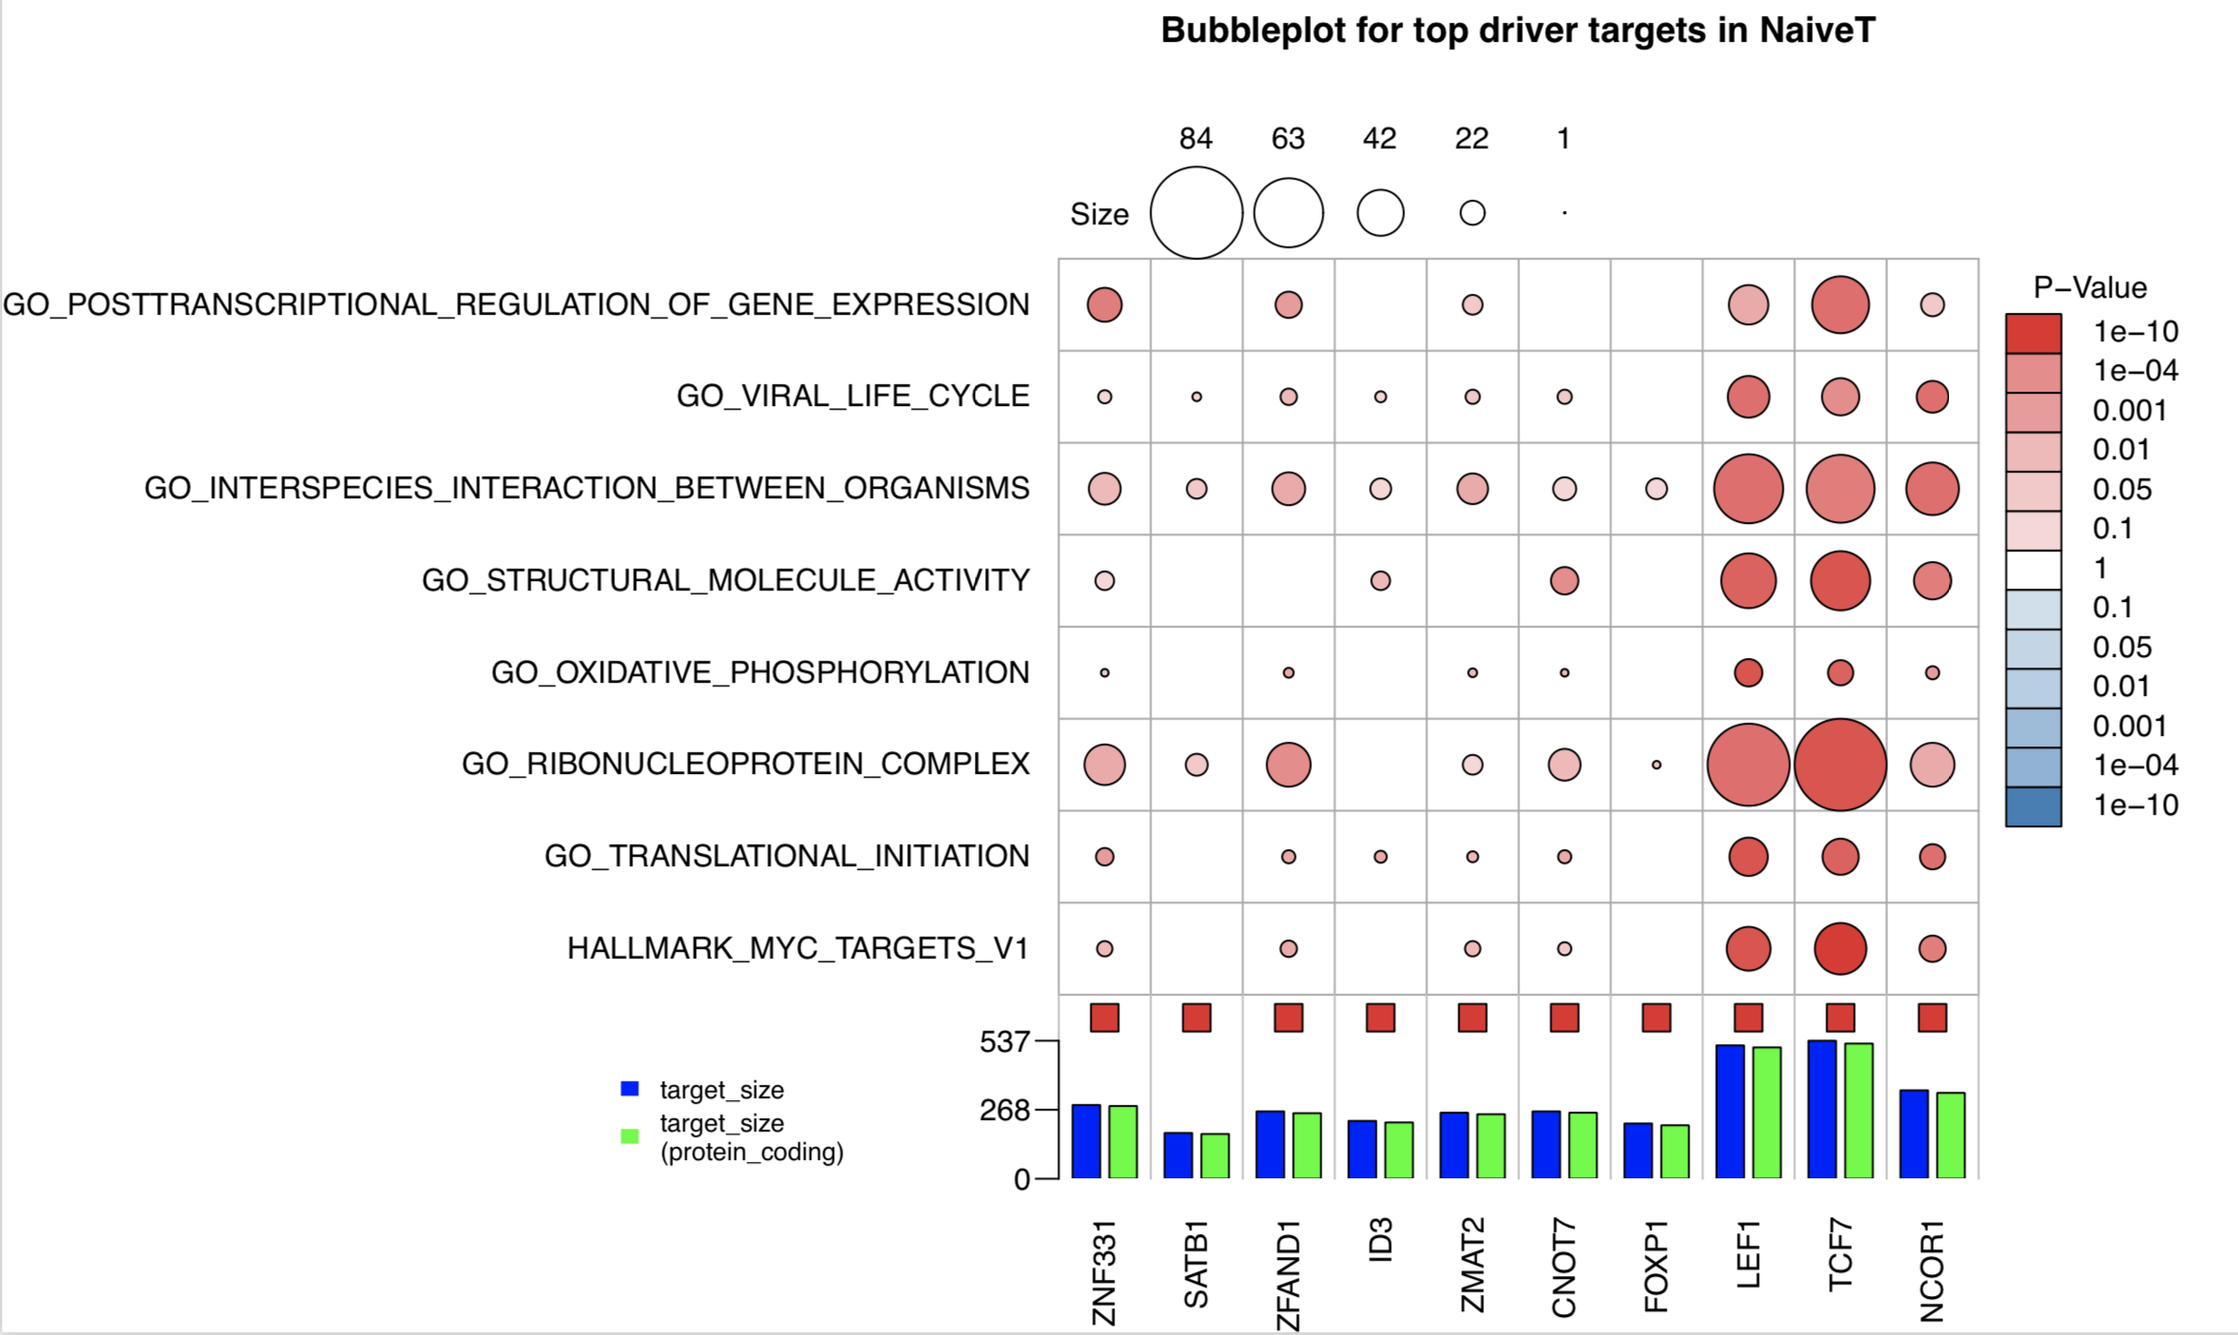
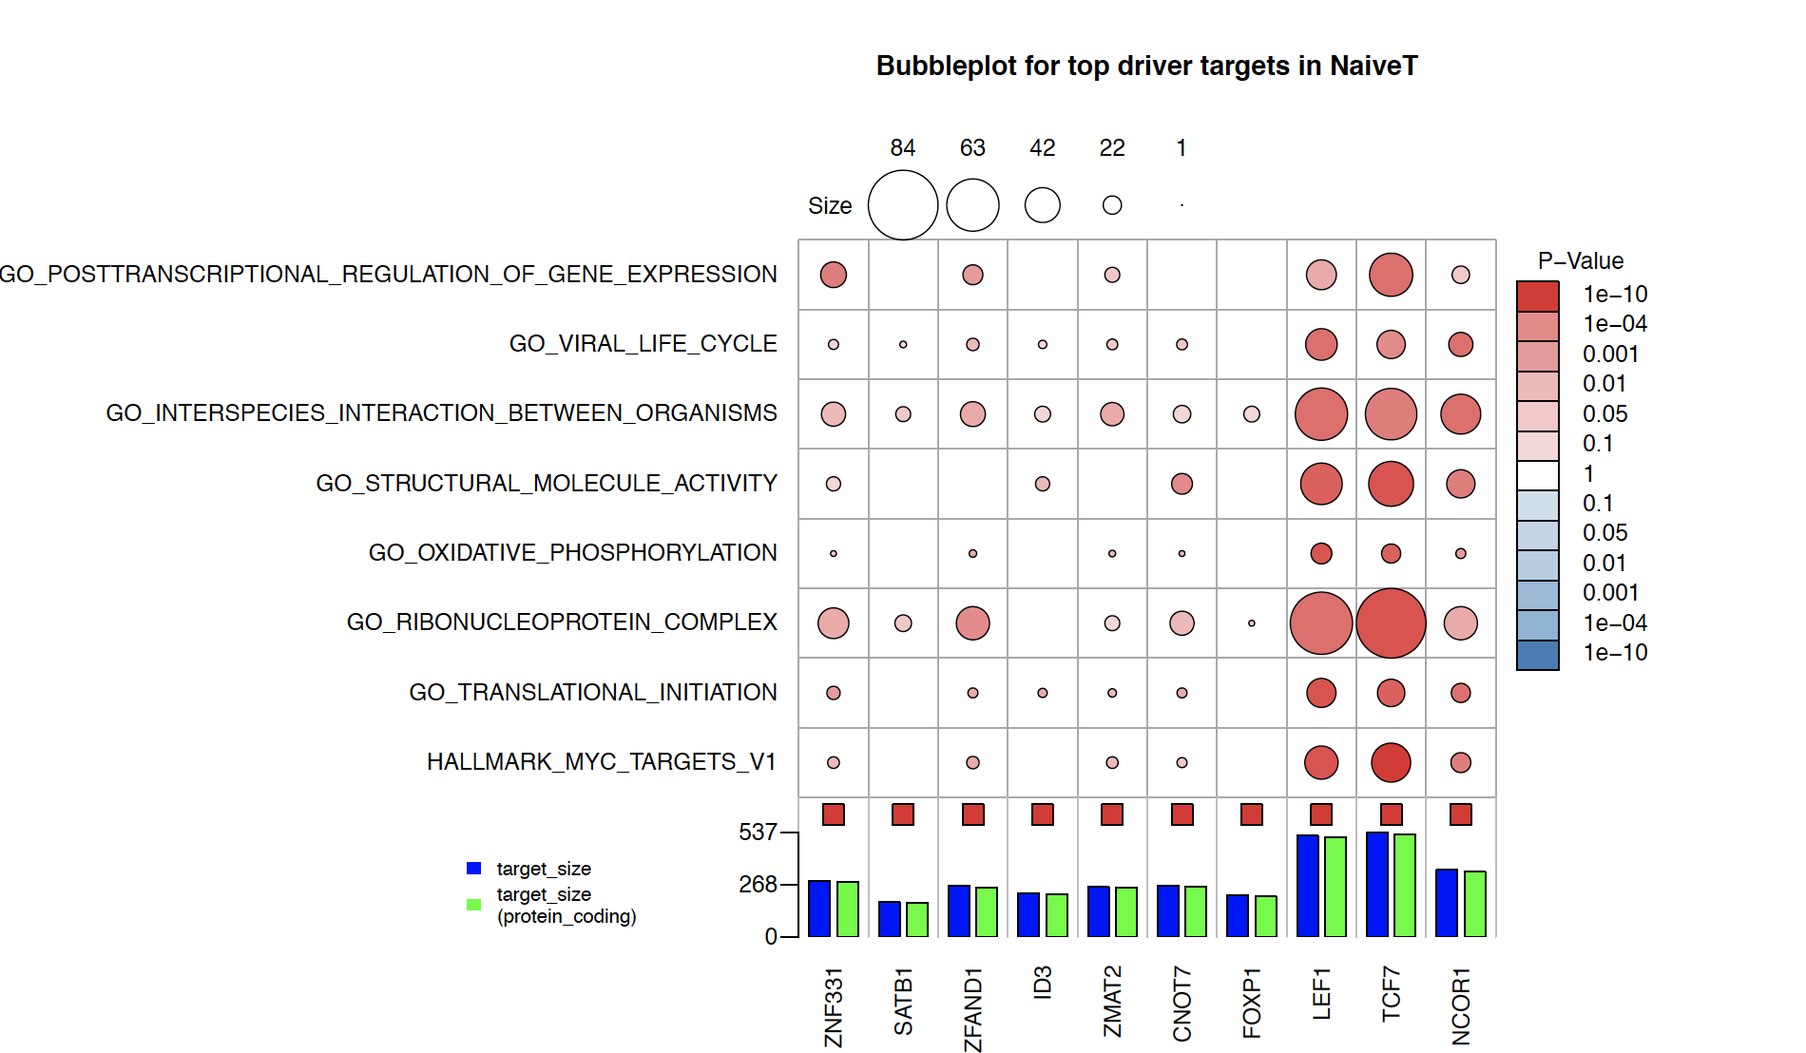
doc update network

diff --git a/docs/_site/docs/PBMC-12k-network.html b/docs/_site/docs/PBMC-12k-network.html
@@ -109,10 +109,10 @@
         
         <div id="main-content" class="page-content" role="main">
           <h1 class="no_toc" id="advanced-analysis">Advanced analysis</h1>
-<p>Here we demonstrate our advanced downstream analysis pipeline using PBMC (10x genmomics) scRNA-seq data after completing driver estimation following tutorial under tab <code class="highlighter-rouge">step by step demo with PBMC data</code></p>
+<p>Here we demonstrate our advanced downstream analysis pipeline using PBMC (10x genmomics) scRNA-seq data after following driver estimation tutorial under tab <code class="highlighter-rouge">step by step user guide</code></p>
 
 <h2 id="network-visualization">Network visualization</h2>
-<p>scMINER incorporates a handful of network visualization/exploration function adapted from <a href="https://jyyulab.github.io/NetBID/">NetBID2</a>, a powerful tool for data-driven network-based bayesian Inference of drivers. scMINER also offered several wrapper of basic visualization functions in NetBID2 for better usability.</p>
+<p>scMINER incorporates a handful of network visualization/exploration function adapted from <a href="https://jyyulab.github.io/NetBID/">NetBID2</a>, a powerful tool for data-driven network-based bayesian Inference of drivers. scMINER also offered several wrappers of basic visualization functions in NetBID2 for better usability.</p>
 
 <h3 id="single-network-visualization">Single network visualization</h3>
 <p>In scMINER, you can visualize your driver and its targets by function <code class="highlighter-rouge">draw.network</code>. It was adapted from function <code class="highlighter-rouge">draw.targetNet</code> and <code class="highlighter-rouge">draw.targetNet.TWO</code> from <code class="highlighter-rouge">NetBID2</code>. This function can help visualize a driver’s targets as well as the relationship(edge) between source and target genes, by taking Mutual information as edge weight, and spearman correlation as direction.</p>
@@ -127,7 +127,13 @@
 <center><img src="./plots/LEF1.TF_in_NaiveT_network.png" alt="drawing" width="600" /></center>
 
 <h3 id="subnetwork-structure-visualization-between-two-networks">Subnetwork structure visualization between two networks</h3>
-<p>You can also use <code class="highlighter-rouge">draw.network</code> function to visualize two networks and their subnetwork structure. This could be used for identify common targets from two top driver from the same network, or identify network rewiring event of same driver in different cell type network. Here below is an example for later case.</p>
+<p>You can also use <code class="highlighter-rouge">draw.network</code> function to visualize two networks and their subnetwork structure. This could be used for:</p>
+<ul>
+  <li>Identify common targets from two top driver from the same network</li>
+  <li>Identify network rewiring event of same driver in different cell type network.</li>
+</ul>
+
+<p>Here below is an example for later case:</p>
 
 <div class="language-R highlighter-rouge"><div class="highlight"><pre class="highlight"><code><span class="n">draw.network</span><span class="p">(</span><span class="n">net1</span><span class="w"> </span><span class="o">=</span><span class="w"> </span><span class="n">net1</span><span class="p">,</span><span class="n">net2</span><span class="w"> </span><span class="o">=</span><span class="w"> </span><span class="n">net2</span><span class="p">,</span><span class="w">
 		</span><span class="n">src1</span><span class="w"> </span><span class="o">=</span><span class="w"> </span><span class="s2">"BATF"</span><span class="p">,</span><span class="n">src2</span><span class="o">=</span><span class="s2">"BATF"</span><span class="p">,</span><span class="w"> 
@@ -143,12 +149,26 @@
 <h3 id="gene-set-overlap-with-targets-visualized-by-bubble-plot">Gene set overlap with targets visualized by bubble plot</h3>
 <p>When picking candidate hidden drivers, it would be extremly helpful if we could identify the potential biological pathways this driver regulates. With SJARACNe infered network, we can assess as well as  visualizethe overlap between knowledge-based gene sets and driver’s targets via function <code class="highlighter-rouge">draw.bubblePlot</code>. This function returns a bubble plot indiating results from Fisher exact test.</p>
 
-<div class="language-R highlighter-rouge"><div class="highlight"><pre class="highlight"><code><span class="w">
-</span><span class="n">TF_list</span><span class="w"> </span><span class="o">&lt;-</span><span class="w"> </span><span class="n">TopMasterRegulator</span><span class="p">(</span><span class="n">DAG_result</span><span class="w"> </span><span class="o">=</span><span class="w"> </span><span class="n">DAG_result</span><span class="p">,</span><span class="w">
+<p>Before using<code class="highlighter-rouge">draw.bubblePlot</code> function, you have to load genesets in your working environment by function <code class="highlighter-rouge">gs.preload()</code></p>
+
+<div class="language-R highlighter-rouge"><div class="highlight"><pre class="highlight"><code><span class="n">gs.preload</span><span class="p">(</span><span class="n">use_spe</span><span class="o">=</span><span class="s1">'Homo sapiens'</span><span class="p">,</span><span class="n">update</span><span class="o">=</span><span class="kc">FALSE</span><span class="p">)</span><span class="w">
+</span></code></pre></div></div>
+
+<p>Then you can use function <code class="highlighter-rouge">TopMasterRegulator</code> to pull out top hidden driver candidates from your Differential activity analysis results. Or write your own fucntions to hand pick candidate to visualize. Here we provide an example of using function <code class="highlighter-rouge">TopMasterRegulator</code>.</p>
+
+<div class="language-R highlighter-rouge"><div class="highlight"><pre class="highlight"><code><span class="n">TF_list</span><span class="w"> </span><span class="o">&lt;-</span><span class="w"> </span><span class="n">TopMasterRegulator</span><span class="p">(</span><span class="n">DAG_result</span><span class="w"> </span><span class="o">=</span><span class="w"> </span><span class="n">DAG_result</span><span class="p">,</span><span class="w">
                               </span><span class="n">celltype</span><span class="o">=</span><span class="s2">"NaiveT"</span><span class="p">,</span><span class="w">
                               </span><span class="n">n</span><span class="w"> </span><span class="o">=</span><span class="w"> </span><span class="m">10</span><span class="p">,</span><span class="w"> </span><span class="n">degree_filter</span><span class="w"> </span><span class="o">=</span><span class="w"> </span><span class="nf">c</span><span class="p">(</span><span class="m">50</span><span class="p">,</span><span class="m">800</span><span class="p">))</span><span class="w">
+</span></code></pre></div></div>
+<p>Next generate your ID to symbol conversion table, since all gene sets are curated at gene symbol level. Here in our data, we used ensembl_id as our default ID for network construction. In order to match your ID with gene symbols, you can use function:</p>
 
-</span><span class="n">draw.bubblePlot</span><span class="p">(</span><span class="n">driver_list</span><span class="o">=</span><span class="w"> </span><span class="n">TF_list</span><span class="p">,</span><span class="w">
+<div class="language-R highlighter-rouge"><div class="highlight"><pre class="highlight"><code><span class="n">tbl</span><span class="w"> </span><span class="o">&lt;-</span><span class="w"> </span><span class="n">get_IDtransfer2symbol2type</span><span class="p">(</span><span class="n">from_type</span><span class="w"> </span><span class="o">=</span><span class="w"> </span><span class="s2">"ensembl_gene_id"</span><span class="p">,</span><span class="w">
+		</span><span class="n">use_genes</span><span class="w"> </span><span class="o">=</span><span class="w"> </span><span class="n">rownames</span><span class="p">(</span><span class="n">eset.12k</span><span class="p">),</span><span class="n">ignore_version</span><span class="w"> </span><span class="o">=</span><span class="w"> </span><span class="kc">TRUE</span><span class="p">)</span><span class="w">
+</span></code></pre></div></div>
+
+<p>Here we provide an example for ploting out overlap between target list of top drivers in Naive T cells, and knowledge based gene sets from “Hallmark”,”KEGG” and “GO”.</p>
+
+<div class="language-R highlighter-rouge"><div class="highlight"><pre class="highlight"><code><span class="n">draw.bubblePlot</span><span class="p">(</span><span class="n">driver_list</span><span class="o">=</span><span class="w"> </span><span class="n">TF_list</span><span class="p">,</span><span class="w">
                 </span><span class="n">show_label</span><span class="o">=</span><span class="n">DAG_result</span><span class="p">[</span><span class="n">TF_list</span><span class="p">,</span><span class="s2">"geneSymbol"</span><span class="p">],</span><span class="w">
                 </span><span class="n">Z_val</span><span class="o">=</span><span class="n">DAG_result</span><span class="p">[</span><span class="n">TF_list</span><span class="p">,</span><span class="s2">"Z_NaiveT"</span><span class="p">],</span><span class="w">
                 </span><span class="n">driver_type</span><span class="o">=</span><span class="kc">NULL</span><span class="p">,</span><span class="w">
@@ -162,7 +182,7 @@
 
 </span></code></pre></div></div>
 
-<center><img src="./plots/NaiveT_bubblePlot.png" alt="drawing" width="600" /></center>
+<center><img src="./plots/NaiveT_bubblePlot.png" alt="gsbbp" /></center>
 
 <hr />
 <div class="highlighter-rouge"><div class="highlight"><pre class="highlight"><code>## R session info

diff --git a/docs/_site/docs/MICA.html b/docs/_site/docs/MICA.html
@@ -109,7 +109,7 @@
         
         <div id="main-content" class="page-content" role="main">
           <h1 class="no_toc" id="clustering-analysis-with-mica">Clustering Analysis with MICA</h1>
-<p class="fs-6 fw-300">MICA(Mutual Information based Clustering Analysis) is a nonlinear clustering analysis tool designed for scRNA-seq data. To install MIE (Mutual inforamtion estimator for distance matrix generation, module required for MICA) and MICA, please refer our <a href="https://github.com/jyyulab/MIE">MIE</a> and <a href="https://github.com/jyyulab/MICA">MICA</a> github page.</p>
+<p class="fs-6 fw-300">MICA(Mutual Information based Clustering Analysis) is a nonlinear clustering analysis tool designed for scRNA-seq data. Here we provide a user guide to perform MICA clustering on both local node or LSF platform. To install, please infer our <a href="https://github.com/jyyulab/MICA">MICA</a> github page.</p>
 
 <h2 class="no_toc text-delta" id="table-of-contents">Table of contents</h2>
 
@@ -144,7 +144,7 @@
 </ol>
 
 <h2 id="preprocssing">Preprocssing</h2>
-<p>MICA module was implemented in python, which only includes clustering analysis. For preprocessing, MICA is compatitble with most published scRNA-seq preprocessing pipeline. However, we highly recommend users to follow our preprocessing framework utilizing <code class="highlighter-rouge">scMINER</code> R package.For detailed information, please see complementary tutorial in tab <code class="highlighter-rouge">Step by step demo with PBMC data</code>.</p>
+<p>MICA module was implemented in python, which only includes clustering analysis. For preprocessing, MICA is compatitble with most published scRNA-seq preprocessing pipeline. However, we highly recommend users to follow our preprocessing framework using <code class="highlighter-rouge">scMINER</code> R package. For detailed information, please see complementary tutorial in tab <code class="highlighter-rouge">Step by step user guide</code>.</p>
 
 <blockquote>
   <p><strong>MICA only takes cell by gene txt file as input, we strongly recommend using <code class="highlighter-rouge">generateMICAinput</code> function to convert your input data to MICA standard input text file in R.</strong></p>

diff --git a/docs/_site/docs/Installation.html b/docs/_site/docs/Installation.html
@@ -111,7 +111,7 @@
           <p>#Installation</p>
 
 <h3 id="dependencies">Dependencies</h3>
-<p>scMINER is depend on <a href="https://www.python.org/downloads/">python3</a> and <a href="https://www.r-project.org/">R</a>, including three individual modules: scMINER R package, MICA and SJARACNe python package.</p>
+<p>scMINER is depend on <a href="https://www.python.org/downloads/">python3</a> and <a href="https://www.r-project.org/">R</a>, which consists of three individual modules: scMINER R package, MICA and SJARACNe python package.</p>
 
 <h3 id="local-installation">Local installation:</h3>
 <ul>

diff --git a/docs/docs/PBMC-12k-network.md b/docs/docs/PBMC-12k-network.md
@@ -6,10 +6,10 @@ nav_order: 6
 
 # Advanced analysis
 {:.no_toc}
-Here we demonstrate our advanced downstream analysis pipeline using PBMC (10x genmomics) scRNA-seq data after completing driver estimation following tutorial under tab `step by step demo with PBMC data`
+Here we demonstrate our advanced downstream analysis pipeline using PBMC (10x genmomics) scRNA-seq data after following driver estimation tutorial under tab `step by step user guide`
 
 ## Network visualization
-scMINER incorporates a handful of network visualization/exploration function adapted from [NetBID2](https://jyyulab.github.io/NetBID/), a powerful tool for data-driven network-based bayesian Inference of drivers. scMINER also offered several wrapper of basic visualization functions in NetBID2 for better usability. 
+scMINER incorporates a handful of network visualization/exploration function adapted from [NetBID2](https://jyyulab.github.io/NetBID/), a powerful tool for data-driven network-based bayesian Inference of drivers. scMINER also offered several wrappers of basic visualization functions in NetBID2 for better usability. 
 
 ### Single network visualization
 In scMINER, you can visualize your driver and its targets by function `draw.network`. It was adapted from function `draw.targetNet` and `draw.targetNet.TWO` from `NetBID2`. This function can help visualize a driver's targets as well as the relationship(edge) between source and target genes, by taking Mutual information as edge weight, and spearman correlation as direction.
@@ -26,7 +26,12 @@ draw.network(net1 = net,src1 = "LEF1", #driver name
 
 
 ### Subnetwork structure visualization between two networks
-You can also use `draw.network` function to visualize two networks and their subnetwork structure. This could be used for identify common targets from two top driver from the same network, or identify network rewiring event of same driver in different cell type network. Here below is an example for later case.
+You can also use `draw.network` function to visualize two networks and their subnetwork structure. This could be used for: 
+- Identify common targets from two top driver from the same network
+- Identify network rewiring event of same driver in different cell type network.   
+
+
+Here below is an example for later case:
 
 ```R
 draw.network(net1 = net1,net2 = net2,
@@ -45,12 +50,29 @@ draw.network(net1 = net1,net2 = net2,
 ### Gene set overlap with targets visualized by bubble plot
 When picking candidate hidden drivers, it would be extremly helpful if we could identify the potential biological pathways this driver regulates. With SJARACNe infered network, we can assess as well as  visualizethe overlap between knowledge-based gene sets and driver's targets via function `draw.bubblePlot`. This function returns a bubble plot indiating results from Fisher exact test. 
 
-```R 
+Before using`draw.bubblePlot` function, you have to load genesets in your working environment by function `gs.preload()`
 
+```R
+gs.preload(use_spe='Homo sapiens',update=FALSE)
+```
+
+Then you can use function `TopMasterRegulator` to pull out top hidden driver candidates from your Differential activity analysis results. Or write your own fucntions to hand pick candidate to visualize. Here we provide an example of using function `TopMasterRegulator`.
+
+```R 
 TF_list <- TopMasterRegulator(DAG_result = DAG_result,
                               celltype="NaiveT",
                               n = 10, degree_filter = c(50,800))
+```
+Next generate your ID to symbol conversion table, since all gene sets are curated at gene symbol level. Here in our data, we used ensembl_id as our default ID for network construction. In order to match your ID with gene symbols, you can use function: 
 
+```R
+tbl <- get_IDtransfer2symbol2type(from_type = "ensembl_gene_id",
+		use_genes = rownames(eset.12k),ignore_version = TRUE)
+```
+
+Here we provide an example for ploting out overlap between target list of top drivers in Naive T cells, and knowledge based gene sets from "Hallmark","KEGG" and "GO".
+
+```R
 draw.bubblePlot(driver_list= TF_list,
                 show_label=DAG_result[TF_list,"geneSymbol"],
                 Z_val=DAG_result[TF_list,"Z_NaiveT"],
@@ -65,15 +87,7 @@ draw.bubblePlot(driver_list= TF_list,
 
 ```
 
-<center><img src="./plots/NaiveT_bubblePlot.png" alt="drawing" width="600"></center>
-
-
-
-
-
-
-
-
+<center><img src="./plots/NaiveT_bubblePlot.png" alt="gsbbp"></center>
 
 
 

diff --git a/docs/docs/MICA.md b/docs/docs/MICA.md
@@ -6,7 +6,7 @@ nav_order: 3
 
 # Clustering Analysis with MICA
 {:.no_toc}
-MICA(Mutual Information based Clustering Analysis) is a nonlinear clustering analysis tool designed for scRNA-seq data. To install MIE (Mutual inforamtion estimator for distance matrix generation, module required for MICA) and MICA, please refer our [MIE](https://github.com/jyyulab/MIE) and [MICA](https://github.com/jyyulab/MICA) github page.  
+MICA(Mutual Information based Clustering Analysis) is a nonlinear clustering analysis tool designed for scRNA-seq data. Here we provide a user guide to perform MICA clustering on both local node or LSF platform. To install, please infer our [MICA](https://github.com/jyyulab/MICA) github page. 
 {: .fs-6 .fw-300 }
 
 ## Table of contents
@@ -27,7 +27,7 @@ MICA is a non-linear clustering analysis algorithm that incorporated:
 
 
 ## Preprocssing
-MICA module was implemented in python, which only includes clustering analysis. For preprocessing, MICA is compatitble with most published scRNA-seq preprocessing pipeline. However, we highly recommend users to follow our preprocessing framework utilizing `scMINER` R package.For detailed information, please see complementary tutorial in tab `Step by step demo with PBMC data`. 
+MICA module was implemented in python, which only includes clustering analysis. For preprocessing, MICA is compatitble with most published scRNA-seq preprocessing pipeline. However, we highly recommend users to follow our preprocessing framework using `scMINER` R package. For detailed information, please see complementary tutorial in tab `Step by step user guide`. 
 
 > **MICA only takes cell by gene txt file as input, we strongly recommend using `generateMICAinput` function to convert your input data to MICA standard input text file in R.**
 

diff --git a/docs/docs/Installation.md b/docs/docs/Installation.md
@@ -7,7 +7,7 @@ nav_order: 2
 #Installation
 
 ### Dependencies
-scMINER is depend on [python3](https://www.python.org/downloads/) and [R](https://www.r-project.org/), including three individual modules: scMINER R package, MICA and SJARACNe python package. 
+scMINER is depend on [python3](https://www.python.org/downloads/) and [R](https://www.r-project.org/), which consists of three individual modules: scMINER R package, MICA and SJARACNe python package. 
 
 
 ### Local installation: 
